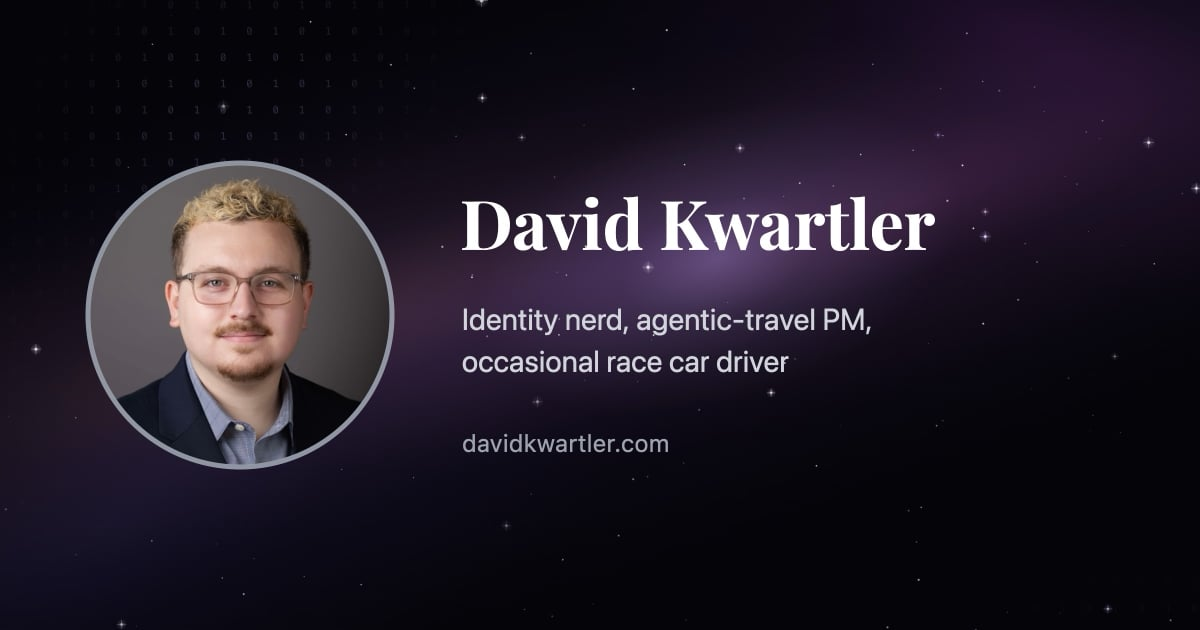
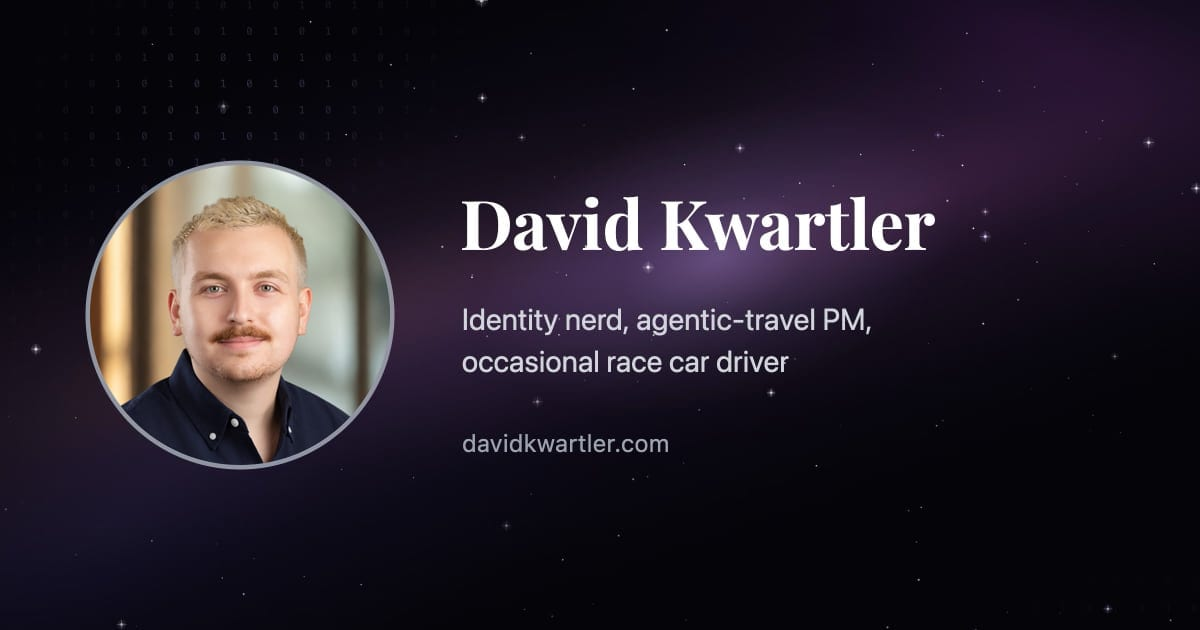
Replace headshot with new November photo
Swap dk-headshot.jpg (hero, nav avatar, JSON-LD) and composite the new
photo into the og.jpg link-preview card, which had the old one baked in.

Changed region(s): [[0.0617, 0.2413, 0.3392, 0.754]]

diff --git a/BACKLOG.md b/BACKLOG.md
@@ -26,6 +26,13 @@ widget, Writing section (MDX), further hero animation experiments.
 
 ## Changelog
 
+### 2026-11-06 — New headshot (branch new-headshot)
+
+- `dk-headshot.jpg` replaced with the retouched November photo (same filename
+  and 512px size, so hero, nav avatar and JSON-LD pick it up with no code change)
+- `og.jpg` link-preview card updated too: the new photo is composited into the
+  existing ring, background and text unchanged
+
 ### 2026-07-27 — Favicon star: richer violet, second glow, more detail (branch galaxy-star-tune)
 
 - Asymmetry retuned. Verticals 19 to 23, horizontals held at 29. The waist,
